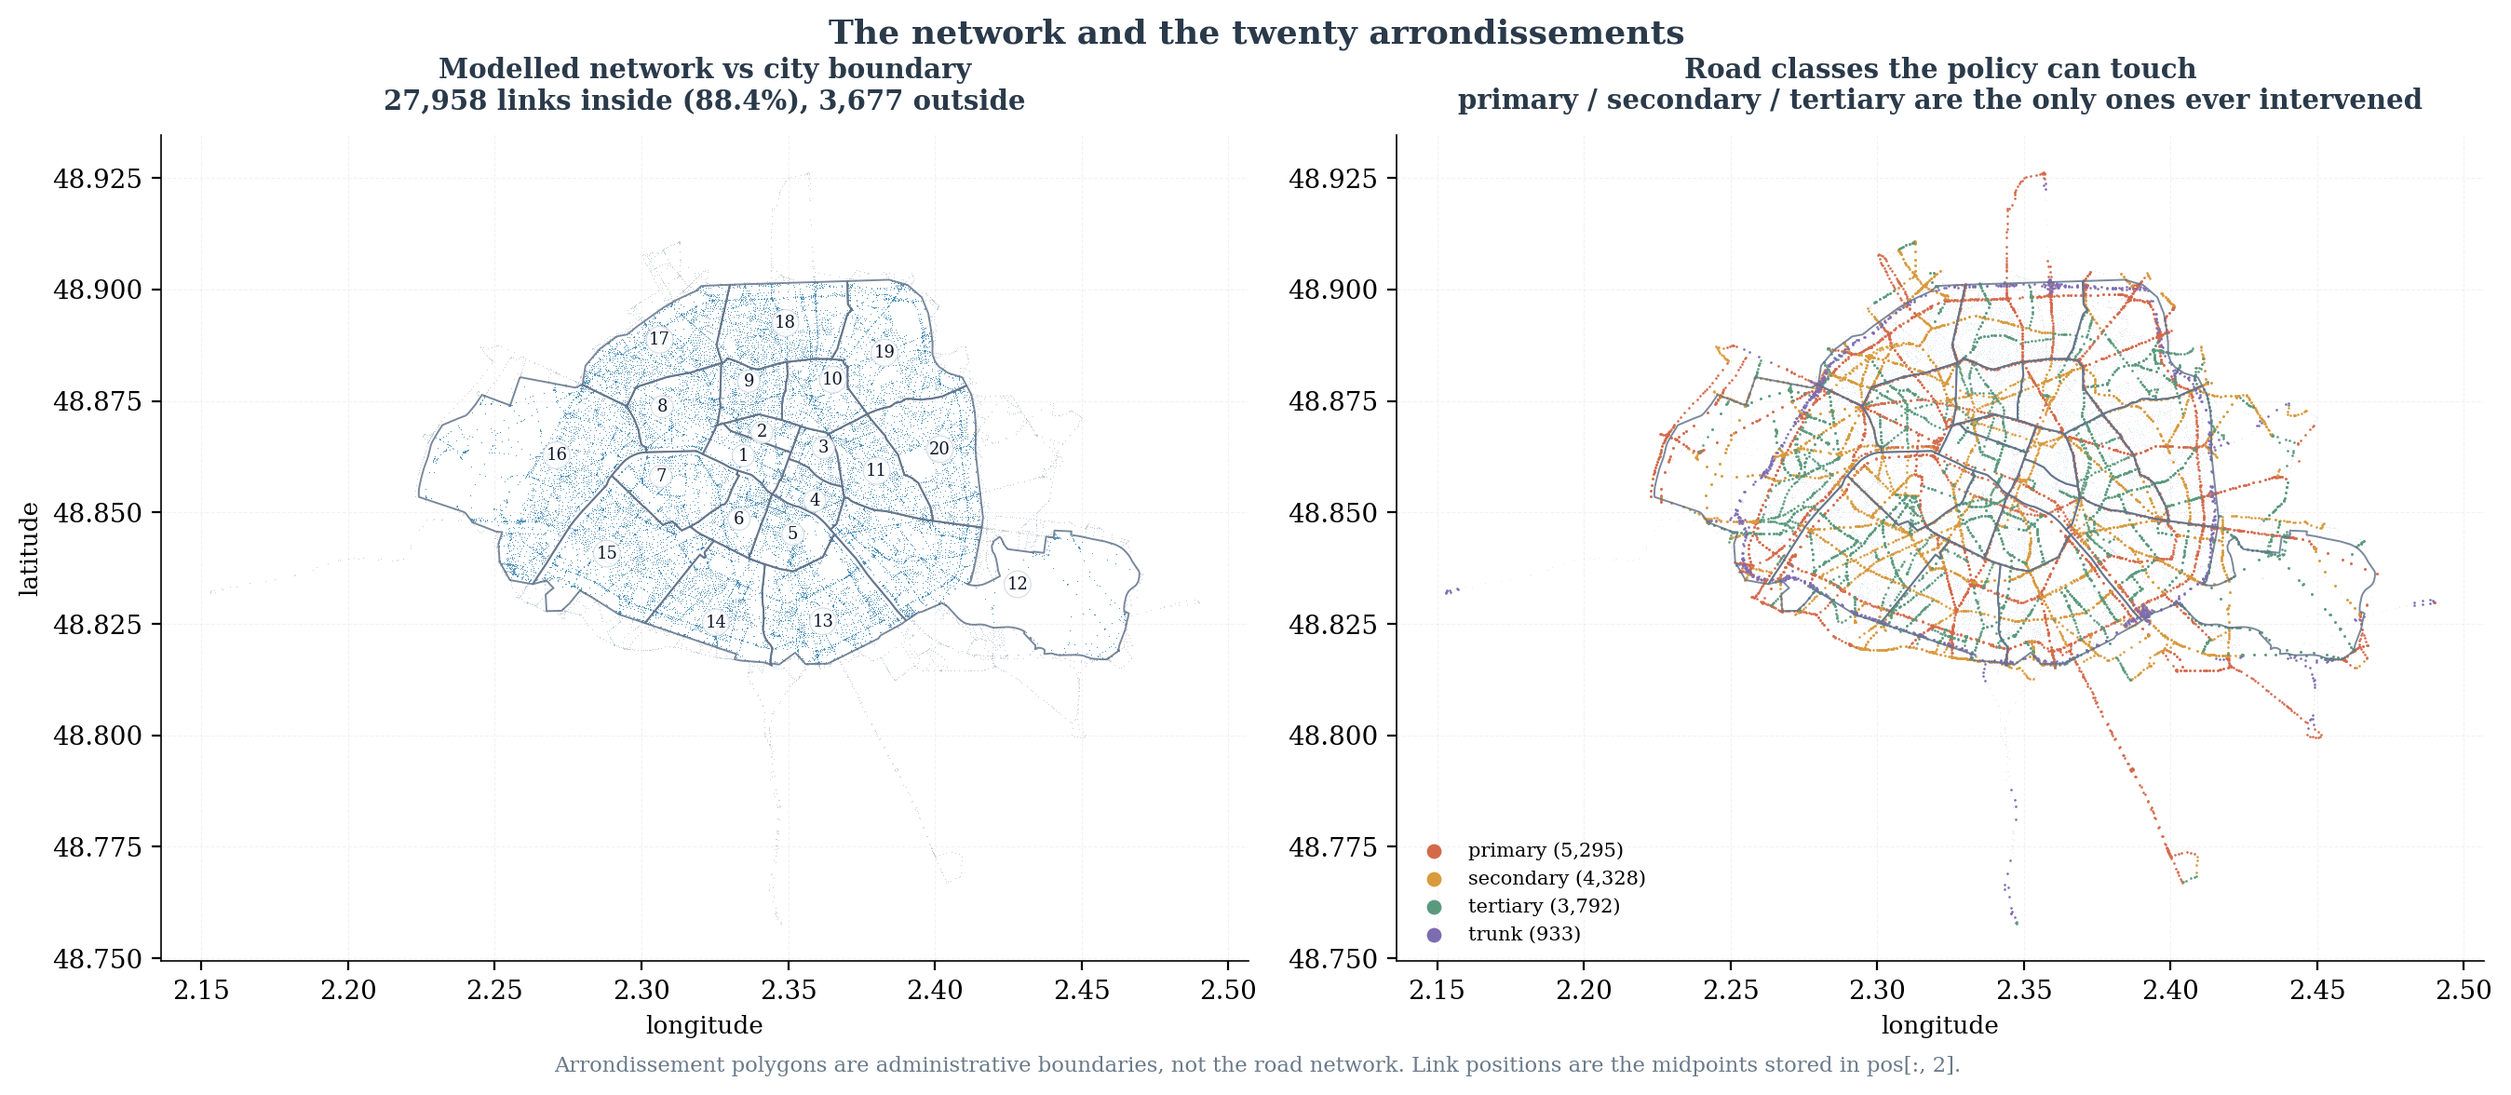
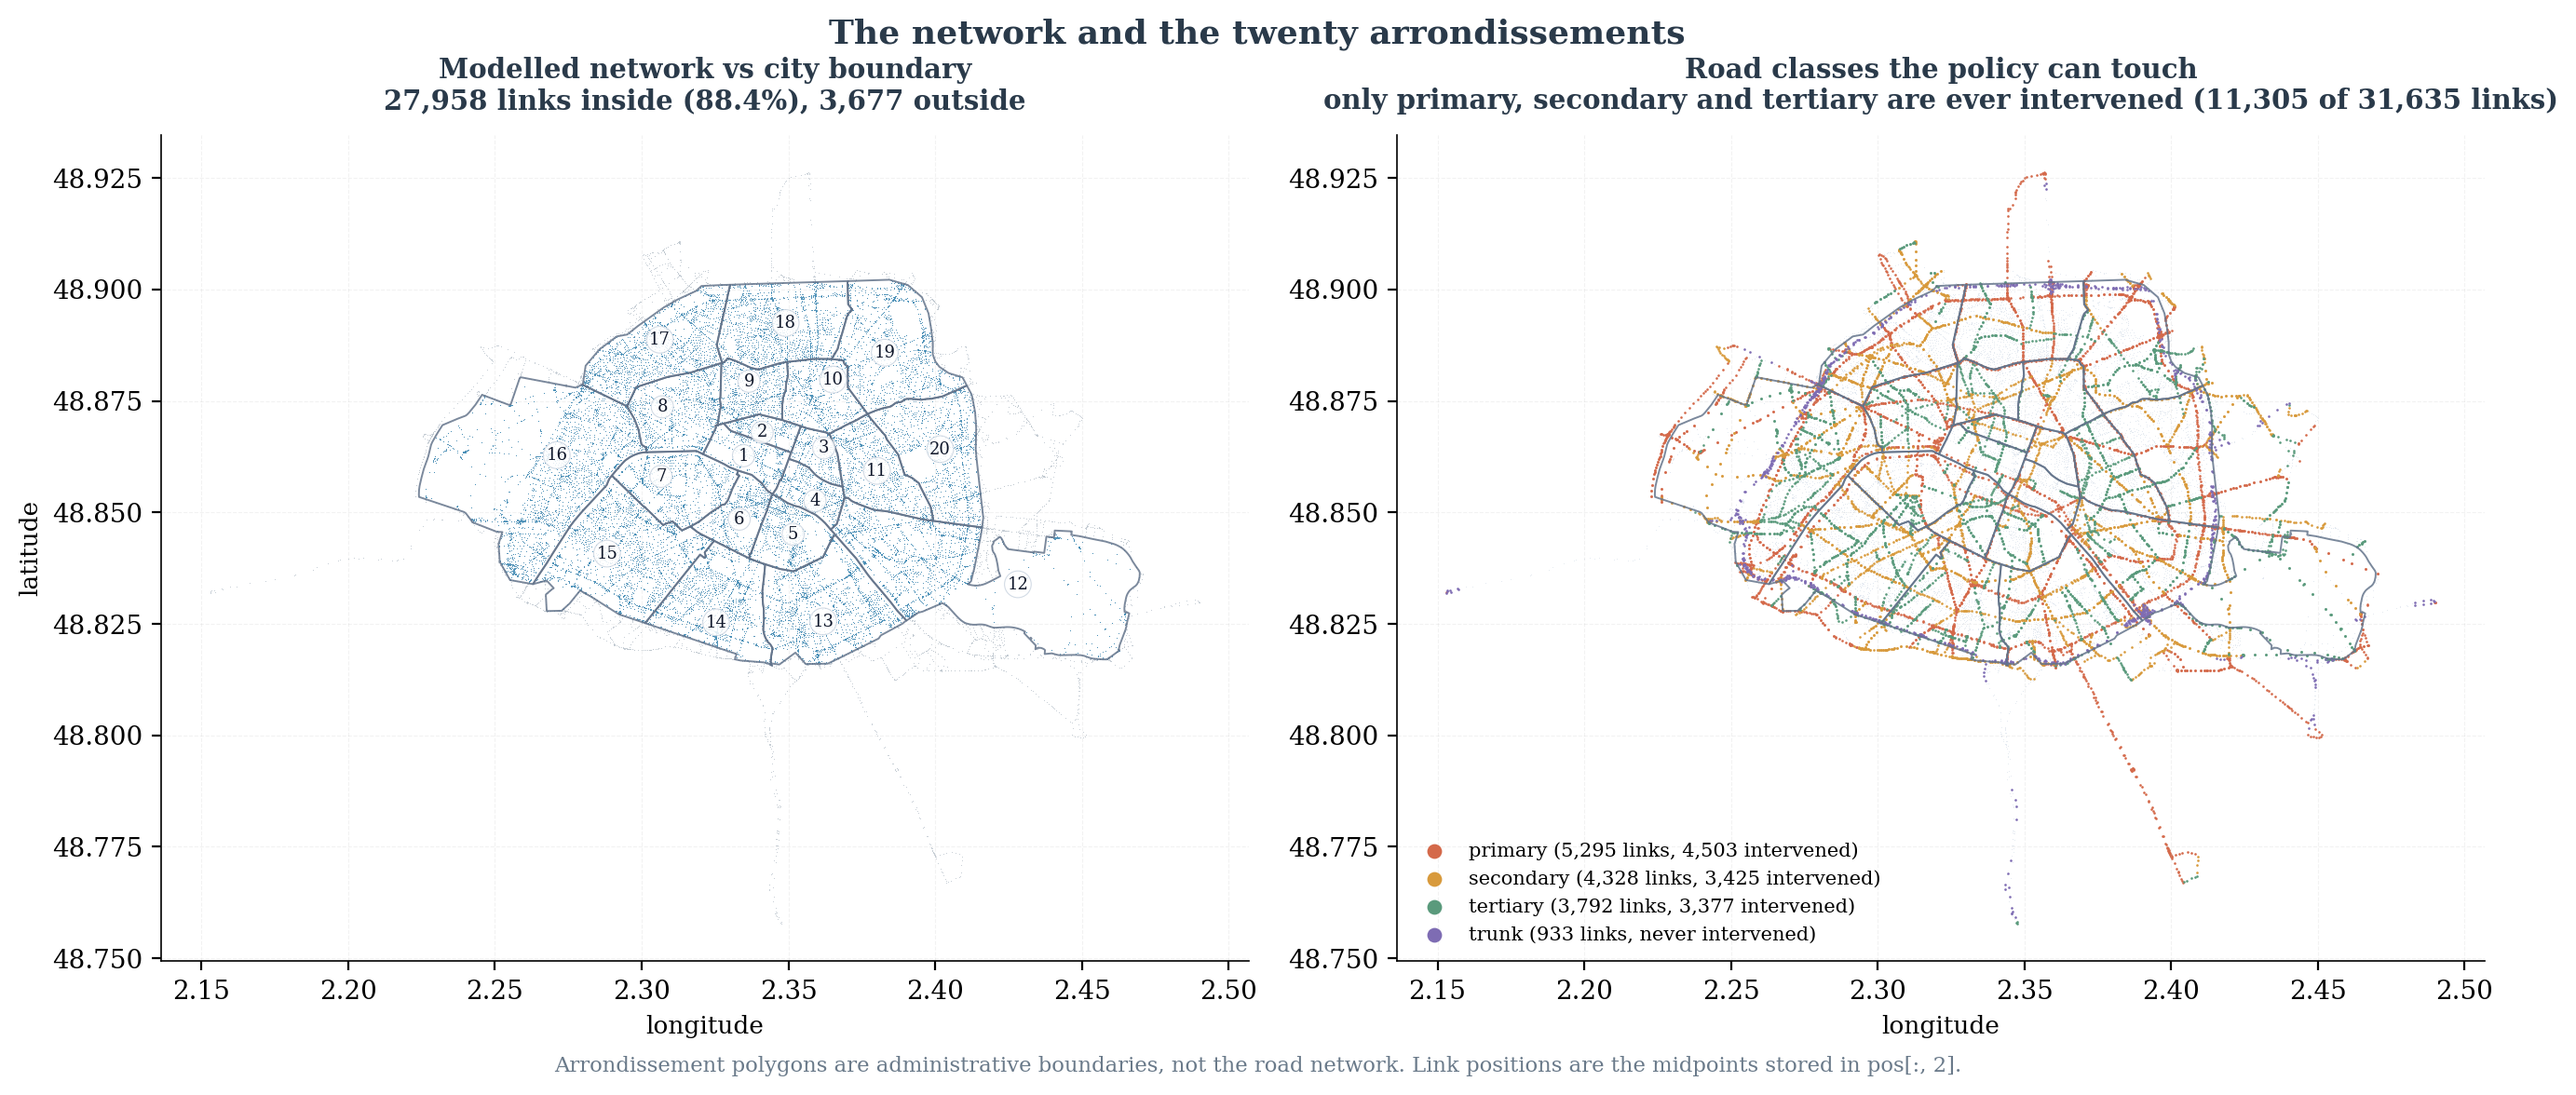
fix: say which road classes are actually intervened, and move a legend
The road-class panel was titled "primary / secondary / tertiary are the only
ones ever intervened" while its legend listed four classes, trunk among them.
Both statements were defensible and together they were misleading.

Checked against the corpus: codes 1, 2 and 3 are intervened in at least one
scenario on 4,503 / 3,425 / 3,377 links, and trunk is touched in none of the
1,000 scenarios. The legend now carries the intervened count per class and
labels trunk "never intervened", so the panel no longer needs the reader to
reconcile its title against its key.

In the conformal panel the nominal-coverage legend sat bottom-right, level with
the 95% bar, where the swatch read as a stray data point. Moved to the empty
upper-left corner.

diff --git a/scripts/figure_generation/generate_results_figures.py b/scripts/figure_generation/generate_results_figures.py
@@ -28,8 +28,8 @@ from scipy import stats
 REPO = Path(__file__).resolve().parent.parent.parent
 sys.path.insert(0, str(Path(__file__).resolve().parent))
 sys.path.insert(0, str(REPO / "scripts" / "evaluation"))
-from thesis_style import COLORS  # noqa: E402
 from artifact_paths import resolve  # noqa: E402
+from thesis_style import COLORS  # noqa: E402
 
 OUT = REPO / "docs" / "figures" / "results"
 T8 = "point_net_transf_gat_8th_trial_lower_dropout"
@@ -220,7 +220,7 @@ def fig_calibration(t, pmc, sig):
     ax.bar(x + w / 2, 100 * (cov(ev_e, ev_s, Tb) - levels), w, color=COLORS["green"],
            label="after scaling")
     ax.axhline(0, color=COLORS["slate"], lw=1)
-    ax.set_xticks(x); ax.set_xticklabels([f"{int(l * 100)}" for l in levels])
+    ax.set_xticks(x); ax.set_xticklabels([f"{int(v * 100)}" for v in levels])
     ax.set_xlabel("nominal level (%)")
     ax.set_ylabel("coverage gap (percentage points)")
     ax.set_title("How far off, at each level", fontweight="600", color=COLORS["dgray"])
@@ -264,7 +264,7 @@ def fig_selective_and_detection(t, pmc, sig, pdet):
     ax.set_title("Selective prediction", fontweight="600", color=COLORS["dgray"])
 
     ax = axes[1]
-    from sklearn.metrics import roc_curve, roc_auc_score
+    from sklearn.metrics import roc_auc_score, roc_curve
     for pct, c in [(10, COLORS["coral"]), (20, COLORS["blue"])]:
         y = (err_det >= np.percentile(err_det, 100 - pct)).astype(np.int8)
         fpr, tpr, _ = roc_curve(y, sig)
@@ -288,7 +288,7 @@ def fig_selective_and_detection(t, pmc, sig, pdet):
         got.append(100 * (ev <= q).mean()); width.append(2 * q)
     x = np.arange(len(lv))
     ax.bar(x, got, color=COLORS["green"], width=0.5)
-    for i, (g, w) in enumerate(zip(got, width)):
+    for i, (g, w) in enumerate(zip(got, width, strict=True)):
         ax.text(i, g + 1.2, f"{g:.2f}%\n±{w/2:.1f}", ha="center", fontsize=7.8,
                 color=COLORS["slate"])
     ax.plot(x, [100 * a for a in lv], "o--", color=COLORS["coral"], ms=5,
@@ -298,7 +298,9 @@ def fig_selective_and_detection(t, pmc, sig, pdet):
     ax.set_xlabel("nominal coverage")
     ax.set_ylabel("empirical coverage (%)")
     ax.set_title("Split conformal coverage", fontweight="600", color=COLORS["dgray"])
-    ax.legend(fontsize=8.2, loc="lower right")
+    # Bottom-right puts the swatch level with the 95% bar, where it reads as a stray
+    # data point rather than a key. Upper-left is empty in this panel.
+    ax.legend(fontsize=8.2, loc="upper left")
 
     fig.suptitle("What the uncertainty is good for", fontsize=13,
                  fontweight="600", color=COLORS["dgray"])

diff --git a/scripts/figure_generation/generate_arrondissement_figures.py b/scripts/figure_generation/generate_arrondissement_figures.py
@@ -82,11 +82,9 @@ def main() -> int:
     args = ap.parse_args()
     red, y, X, pos, ei = load(args.corpus, args.cache)
     mid = pos[:, 2, :]
-    M = red != 0
     polys = load_polys()
     A = aspect(mid[:, 1].mean())
     absY = np.abs(y).mean(0)
-    touch = M.sum(0)
     ar = np.load(args.cache / "arrondissement_of_link.npy")
     summ = {r["arrondissement"]: r for r in json.loads(
         (REPO / "docs/portfolio_data_story/assets/arrondissements.json")
@@ -110,16 +108,24 @@ def main() -> int:
 
     ax = axes[1]
     hw = X[:, 4].astype(int)
+    # Trunk is drawn because it is the other major-road class, but no scenario ever
+    # touches it. The legend says so per class rather than leaving the reader to infer
+    # from the panel title that one of the four colours behaves differently.
+    ever = (red != 0).any(0)
     pal = {1: COLORS["coral"], 2: COLORS["amber"], 3: COLORS["green"], 0: COLORS["purple"]}
     ax.scatter(mid[:, 0], mid[:, 1], s=0.10, c="#e2e8f0", linewidths=0)
     for code, col in pal.items():
         s = hw == code
+        n_ev = int(ever[s].sum())
+        tag = f"{n_ev:,} intervened" if n_ev else "never intervened"
         ax.scatter(mid[s, 0], mid[s, 1], s=0.9, c=col, linewidths=0,
-                   label=f"{HIGHWAY_CLASSES[code].split(' /')[0]} ({s.sum():,})")
+                   label=f"{HIGHWAY_CLASSES[code].split(' /')[0]} "
+                         f"({s.sum():,} links, {tag})")
     draw_boundaries(ax, polys, label=False)
     ax.legend(fontsize=7.5, markerscale=6, loc="lower left")
     ax.set_title("Road classes the policy can touch\n"
-                 "primary / secondary / tertiary are the only ones ever intervened",
+                 f"only primary, secondary and tertiary are ever intervened "
+                 f"({int(ever.sum()):,} of {ever.size:,} links)",
                  fontweight="600", color=COLORS["dgray"])
     fig.suptitle("The network and the twenty arrondissements", fontsize=13,
                  fontweight="600", color=COLORS["dgray"])
@@ -136,7 +142,7 @@ def main() -> int:
         ("mean_abs_response_vehh", "Mean |response| (veh/h)", "PuRd", 1),
     ]
     fig, axes = plt.subplots(1, 3, figsize=(15.5, 5.0))
-    for ax, (key, title, cmap, scale) in zip(axes, metrics):
+    for ax, (key, title, cmap, scale) in zip(axes, metrics, strict=True):
         vals = {c: summ[c][key] * scale for c in summ if c > 0}
         lo, hi = min(vals.values()), max(vals.values())
         cm = plt.get_cmap(cmap)
